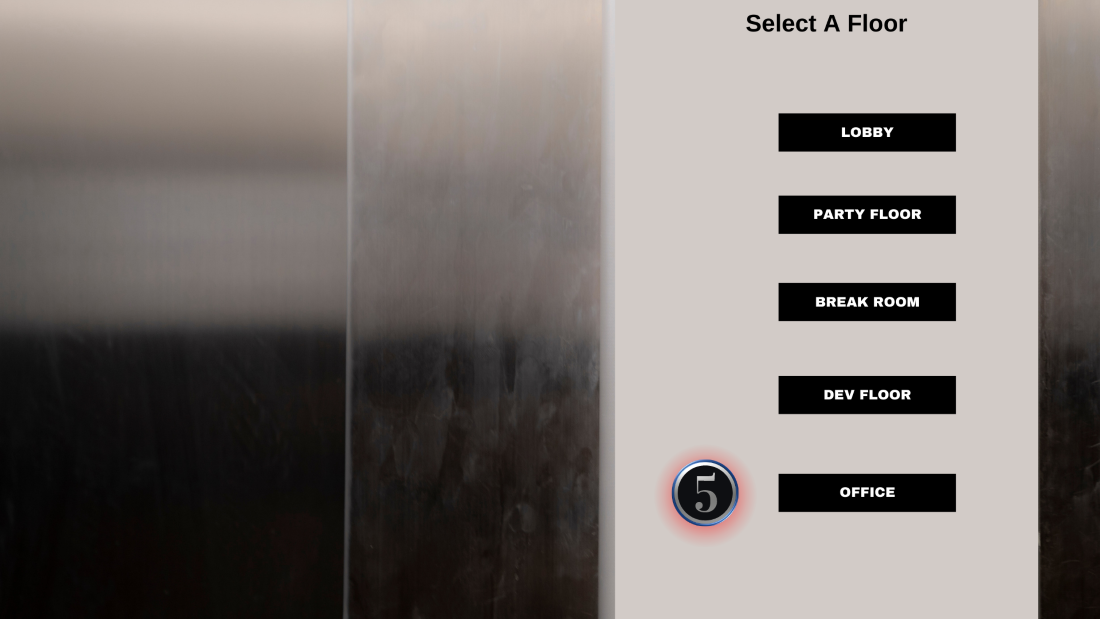
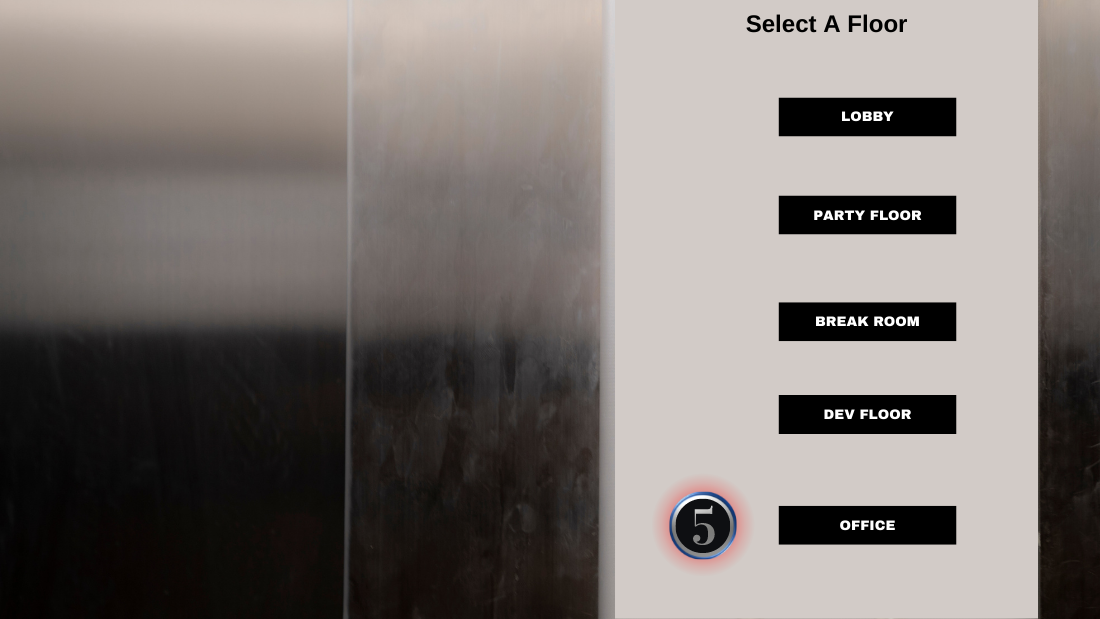
added office item

diff --git a/src/main/java/com/mandatory_overtime/view/LocationGUIPanel.java b/src/main/java/com/mandatory_overtime/view/LocationGUIPanel.java
@@ -1,11 +1,10 @@
 package com.mandatory_overtime.view;
 
+import com.mandatory_overtime.model.Item;
 import com.mandatory_overtime.model.Room;
 import java.io.IOException;
 import java.io.InputStream;
-import java.util.ArrayList;
 import java.util.HashMap;
-import java.util.List;
 import java.util.Map;
 import java.util.Map.Entry;
 import javax.imageio.ImageIO;
@@ -17,18 +16,19 @@ import javax.swing.JLayeredPane;
 public class LocationGUIPanel {
 
     private Map<String, JLayeredPane> locationsGuiPanels;
+    private final Map<String, Item> gameItems;
 
-    private String[] elevatorButtonNames = new String[]{"1","2","3", "4","5"};
-    private String[] elevator_1_ButtonNames = new String[]{"2","3", "4","5"};
-    private String[] elevator_2_ButtonNames = new String[]{"1","3", "4","5"};
-    private String[] elevator_3_ButtonNames = new String[]{"1","2", "4","5"};
-    private String[] elevator_4_ButtonNames = new String[]{"1","2","3","5"};
-    private String[] elevator_5_ButtonNames = new String[]{"1","2","3", "4"};
+    private final String[] elevatorButtonNames = new String[]{"1","2","3", "4","5"};
+    private final String[] elevator_1_ButtonNames = new String[]{"2","3", "4","5"};
+    private final String[] elevator_2_ButtonNames = new String[]{"1","3", "4","5"};
+    private final String[] elevator_3_ButtonNames = new String[]{"1","2", "4","5"};
+    private final String[] elevator_4_ButtonNames = new String[]{"1","2","3","5"};
+    private final String[] elevator_5_ButtonNames = new String[]{"1","2","3", "4"};
 
 
-    public LocationGUIPanel(Map<String, Room> map) {
+    public LocationGUIPanel(Map<String, Room> map, Map<String, Item> items) {
+        gameItems = items;
         locationsGuiPanels = generateLocationPanels(map);
-
     }
 
     public Map<String, JLayeredPane> getLocationsGuiPanels(){
@@ -38,58 +38,63 @@ public class LocationGUIPanel {
     private Map<String, JLayeredPane> generateLocationPanels(Map<String, Room> map) {
         locationsGuiPanels = new HashMap<>();
         for (Entry<String, Room> entry : map.entrySet()) {
-            JLayeredPane pane = createPane(entry.getValue().getImage(), entry.getKey());
+            JLayeredPane pane = createPane(entry.getValue().getImage(), entry.getKey(), entry.getValue()
+                .getItem());
             locationsGuiPanels.put(entry.getKey(), pane);
         }
         return locationsGuiPanels;
     }
 
-    private JLayeredPane createPane(String imageUrl, String locationName){
+    private JLayeredPane createPane(String imageUrl, String locationName, String itemName){
         JLayeredPane pane = new JLayeredPane();
 
-        // LOCATION SECTION
+        // GET IMAGE FOR LOCATION
         try {
             InputStream stream = getClass().getResourceAsStream("/images/"+imageUrl);
             ImageIcon img = new ImageIcon(ImageIO.read(stream));
-            // CREATES LOCATION IMAGE
+        // CREATES LOCATION IMAGE
             JLabel locationImage= new JLabel(img);
             locationImage.setSize(1100, 700);
 
-            // ADDS LOCATION ITEM BUTTON
+        // ADDS LOCATION ITEM BUTTON
             //TODO get the item for the location and add image as a button
             // set coords for the item on the image
             // save into JSON as x, y coords
+            if(gameItems.get(itemName) != null){
+                pane.add(createItemButton(gameItems.get(itemName)));
+            }
 
-            // IF THE LOCATION IS Elevator add the elevator buttons
+
+         // IF THE LOCATION IS Elevator add the elevator buttons
             switch (locationName){
                 case "elevator":
                     for(int i =0; i < elevatorButtonNames.length; i++){
-                        pane.add(createButton(elevatorButtonNames[i]));
+                        pane.add(createElevatorButton(elevatorButtonNames[i]));
                     }
                     break;
                 case "1":
                     for(int i =0; i < elevator_1_ButtonNames.length; i++){
-                        pane.add(createButton(elevator_1_ButtonNames[i]));
+                        pane.add(createElevatorButton(elevator_1_ButtonNames[i]));
                     }
                     break;
                 case "2":
                     for(int i =0; i < elevator_2_ButtonNames.length; i++){
-                        pane.add(createButton(elevator_2_ButtonNames[i]));
+                        pane.add(createElevatorButton(elevator_2_ButtonNames[i]));
                     }
                     break;
                 case "3":
                     for(int i =0; i < elevator_3_ButtonNames.length; i++){
-                        pane.add(createButton(elevator_3_ButtonNames[i]));
+                        pane.add(createElevatorButton(elevator_3_ButtonNames[i]));
                     }
                     break;
                 case "4":
                     for(int i =0; i < elevator_4_ButtonNames.length; i++){
-                        pane.add(createButton(elevator_4_ButtonNames[i]));
+                        pane.add(createElevatorButton(elevator_4_ButtonNames[i]));
                     }
                     break;
                 case "5":
                     for(int i =0; i < elevator_5_ButtonNames.length; i++){
-                        pane.add(createButton(elevator_5_ButtonNames[i]));
+                        pane.add(createElevatorButton(elevator_5_ButtonNames[i]));
                     }
                     break;
                 default:
@@ -107,7 +112,7 @@ public class LocationGUIPanel {
         return pane;
     }
 
-    private JButton createButton(String buttonSelection){
+    private JButton createElevatorButton(String buttonSelection){
          JButton elevatorBtn_1;
          JButton elevatorBtn_2;
          JButton elevatorBtn_3;
@@ -118,7 +123,7 @@ public class LocationGUIPanel {
             InputStream img1 = getClass().getResourceAsStream("/images/elevatorBtn1.png");
             ImageIcon elevatorBtn1Image = new ImageIcon(ImageIO.read(img1));
             elevatorBtn_1 = new JButton(elevatorBtn1Image);
-            elevatorBtn_1.setBounds(663,130,80, 80);
+            elevatorBtn_1.setBounds(665,120,80, 80);
             elevatorBtn_1.setFocusPainted(false);
             elevatorBtn_1.setContentAreaFilled(false);
             elevatorBtn_1.setBorder(null);
@@ -127,7 +132,7 @@ public class LocationGUIPanel {
             InputStream img2 = getClass().getResourceAsStream("/images/elevatorBtn2.png");
             ImageIcon elevatorBtn2Image = new ImageIcon(ImageIO.read(img2));
             elevatorBtn_2 = new JButton(elevatorBtn2Image);
-            elevatorBtn_2.setBounds(663,215,80, 80);
+            elevatorBtn_2.setBounds(665,215,80, 80);
             elevatorBtn_2.setFocusPainted(false);
             elevatorBtn_2.setContentAreaFilled(false);
             elevatorBtn_2.setBorder(null);
@@ -136,7 +141,7 @@ public class LocationGUIPanel {
             InputStream img3 = getClass().getResourceAsStream("/images/elevatorBtn3.png");
             ImageIcon elevatorBtn3Image = new ImageIcon(ImageIO.read(img3));
             elevatorBtn_3 = new JButton(elevatorBtn3Image);
-            elevatorBtn_3.setBounds(663,300,80, 80);
+            elevatorBtn_3.setBounds(665,320,80, 80);
             elevatorBtn_3.setFocusPainted(false);
             elevatorBtn_3.setContentAreaFilled(false);
             elevatorBtn_3.setBorder(null);
@@ -145,7 +150,7 @@ public class LocationGUIPanel {
             InputStream img4 = getClass().getResourceAsStream("/images/elevatorBtn4.png");
             ImageIcon elevatorBtn4Image = new ImageIcon(ImageIO.read(img4));
             elevatorBtn_4 = new JButton(elevatorBtn4Image);
-            elevatorBtn_4.setBounds(663,385,80, 80);
+            elevatorBtn_4.setBounds(665,415,80, 80);
             elevatorBtn_4.setFocusPainted(false);
             elevatorBtn_4.setContentAreaFilled(false);
             elevatorBtn_4.setBorder(null);
@@ -154,7 +159,7 @@ public class LocationGUIPanel {
             InputStream img5 = getClass().getResourceAsStream("/images/elevatorBtn5.png");
             ImageIcon elevatorBtn5Image = new ImageIcon(ImageIO.read(img5));
             elevatorBtn_5 = new JButton(elevatorBtn5Image);
-            elevatorBtn_5.setBounds(663,480,80, 80);
+            elevatorBtn_5.setBounds(665,515,80, 80);
             elevatorBtn_5.setFocusPainted(false);
             elevatorBtn_5.setContentAreaFilled(false);
             elevatorBtn_5.setBorder(null);
@@ -178,6 +183,24 @@ public class LocationGUIPanel {
         }
 
         return new JButton();
+    }
+
+    private JButton createItemButton(Item item){
+            JButton itemButton;
+        try{
+            InputStream img1 = getClass().getResourceAsStream("/images/"+ item.getImage());
+            ImageIcon itemImage = new ImageIcon(ImageIO.read(img1));
+            // ITEM BUTTON CREATED
+            itemButton = new JButton(itemImage);
+            itemButton.setFocusPainted(false);
+            itemButton.setContentAreaFilled(false);
+            itemButton.setBounds(200,375,350, 300);
+            itemButton.setToolTipText(item.getPurpose());
+            return itemButton;
+        } catch (IOException e) {
+            throw new RuntimeException(e);
+        }
+
     }
 
 

diff --git a/src/main/java/com/mandatory_overtime/controller/GUIController.java b/src/main/java/com/mandatory_overtime/controller/GUIController.java
@@ -26,7 +26,7 @@ public class GUIController {
 
     public GUIController() throws IOException {
         building.createGameStructureFromNew();
-        view = new GuiView(building.getBuilding());
+        view = new GuiView(building.getBuilding(), building.getGameItems());
         view.presentMainMenu();
         view.setMoveConsumer(new Consumer<String>() {
             @Override
@@ -47,7 +47,7 @@ public class GUIController {
 
     public void startGame(){
         //String currentLocation = player.getCurrentLocation();
-        String currentLocation = "3";
+        String currentLocation = "office";
         String[] directions = building.getBuilding().get(currentLocation).getDirections();
         System.out.println(Arrays.toString(directions));
         String message = "Whatever feedback we get from building methods";

diff --git a/src/main/java/com/mandatory_overtime/view/GamePlayScreen.java b/src/main/java/com/mandatory_overtime/view/GamePlayScreen.java
@@ -25,8 +25,8 @@ public class GamePlayScreen {
     private final SettingsMenu settingsMenu = new SettingsMenu();
     private JLayeredPane gameScreen;
 
-    public GamePlayScreen(HashMap locations){
-        buildLocationGUI(locations);
+    public GamePlayScreen(HashMap locations, HashMap items){
+        buildLocationGUI(locations, items);
 
     }
     public JLayeredPane getGameScreen(){
@@ -134,8 +134,8 @@ public class GamePlayScreen {
 
 
 
-    public void buildLocationGUI(HashMap locations){
-        LocationGUIPanel locationGUIPanel = new LocationGUIPanel(locations);
+    public void buildLocationGUI(HashMap locations, HashMap items){
+        LocationGUIPanel locationGUIPanel = new LocationGUIPanel(locations, items);
         LOCATION_GUI_PANELS = locationGUIPanel.getLocationsGuiPanels();
     }
 

diff --git a/src/main/java/com/mandatory_overtime/model/Building.java b/src/main/java/com/mandatory_overtime/model/Building.java
@@ -63,6 +63,7 @@ public class Building {
         items = (HashMap<String, Item>) itemArray.stream()
             .collect(Collectors.toMap(Item::getName, item -> item));
 
+
         npcs = (HashMap<String, Npc>) npcsArray.stream()
             .collect(Collectors.toMap(Npc::getName, npc -> npc));
     }
@@ -562,6 +563,10 @@ public class Building {
 
     public HashMap<String, Room> getBuilding() {
         return building;
+    }
+
+    public HashMap<String, Item> getGameItems(){
+        return items;
     }
 
     public class CantGetItemException extends Throwable {

diff --git a/src/main/java/com/mandatory_overtime/view/GuiView.java b/src/main/java/com/mandatory_overtime/view/GuiView.java
@@ -22,8 +22,9 @@ public class GuiView {
 
     public static Map<String, JLayeredPane> LOCATION_GUI_PANELS;
 
-    public GuiView(HashMap locations) throws IOException {
-        gamePlayScreen =new GamePlayScreen(locations);
+    public GuiView(HashMap locations, HashMap items) throws IOException {
+
+        gamePlayScreen =new GamePlayScreen(locations, items);
         JFrame frame = new JFrame("Mandatory Overtime");
         frame.setPreferredSize(new Dimension(1500, 800));
         frame.setDefaultCloseOperation(JFrame.EXIT_ON_CLOSE);

diff --git a/src/main/java/com/mandatory_overtime/model/Item.java b/src/main/java/com/mandatory_overtime/model/Item.java
@@ -26,6 +26,9 @@ public class Item {
   @SerializedName("acquired")
   private Boolean acquired;
 
+  @SerializedName("image")
+  private String image;
+
 
   @SerializedName("sound1")
   private String audio1;
@@ -108,5 +111,13 @@ public class Item {
 
   public void setChallengeAnswer(String challengeAnswer) {
     this.challengeAnswer = challengeAnswer;
+  }
+
+  public String getImage(){
+    return image;
+  }
+
+  public void setImage(String image){
+    this.image = image;
   }
 }

diff --git a/src/main/java/com/mandatory_overtime/Main.java b/src/main/java/com/mandatory_overtime/Main.java
@@ -12,7 +12,7 @@ public class Main {
 
     public static void main(String[] args)
         throws IOException, URISyntaxException {
-        GameMusic.startBackgroundMusic();
+       // GameMusic.startBackgroundMusic();
 
         GUIController gui = new GUIController();
         //GamePlay gamePlay = new GamePlay();
